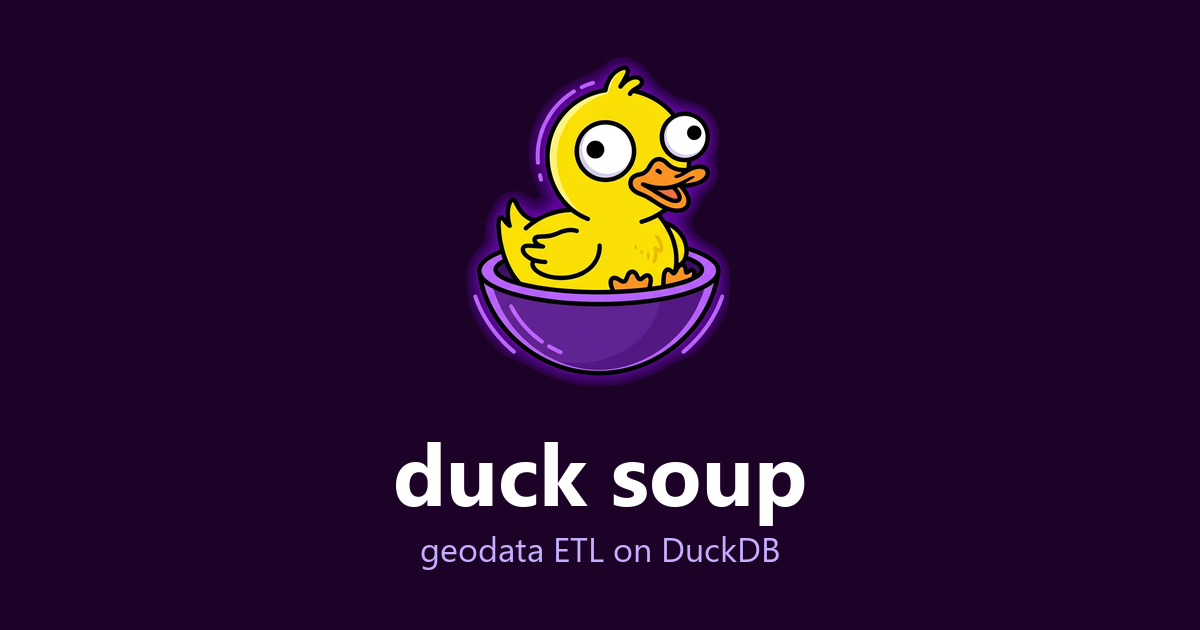
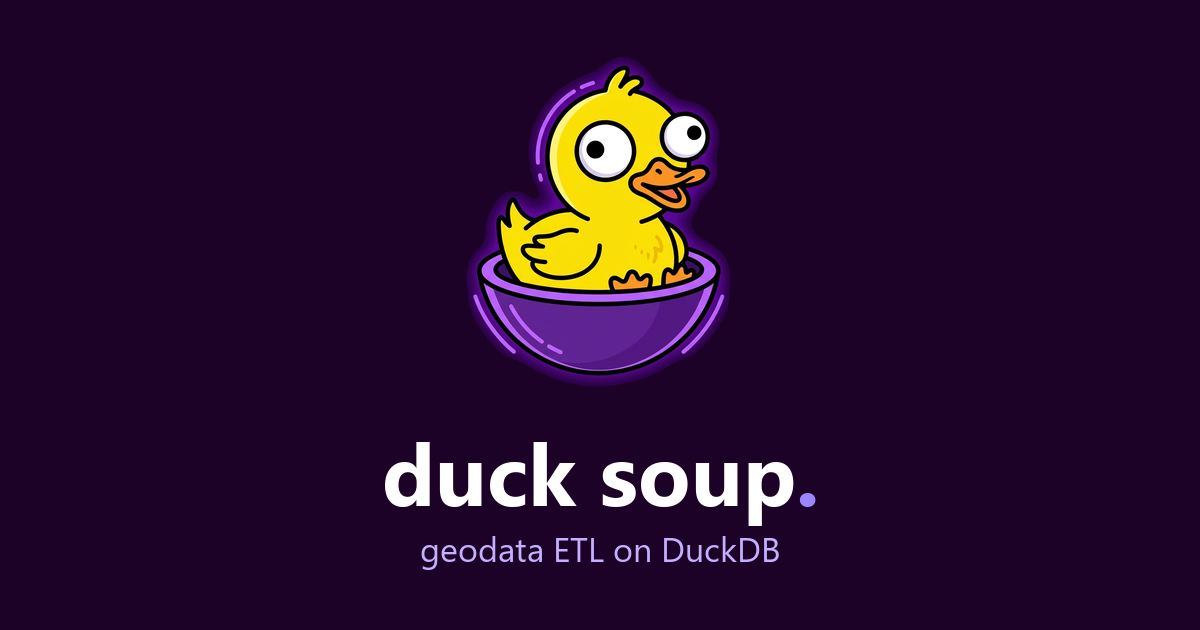
End the wordmark with the editor's accent-coloured full stop, bump to 1.3.3
- Docs header: the site name gets a "." in the accent colour (CSS on the
  header's first topic; a paler violet on the light scheme's violet bar).
  site_name itself stays plain, for tab titles and link previews.
- Docs home page title: "duck soup." with the dot in the accent colour.
- Social card: the title is drawn with the accent-coloured dot (rebuilt).
- README title: "duck soup."

Changed region(s): [[0.3083, 0.6937, 0.6783, 0.8444]]

diff --git a/docs/stylesheets/extra.css b/docs/stylesheets/extra.css
@@ -36,6 +36,19 @@
   margin-left: 0.2rem;
 }
 
+/* The editor's wordmark ends in an accent-coloured full stop ("duck soup."); give the header's
+   site name the same one. Only the first topic is the site name, the second the page title.
+   On the topic (a flex box) rather than its span, whose trailing whitespace would show. */
+.md-header__topic:first-child::after {
+  content: ".";
+  color: var(--ds-accent);
+}
+
+/* The light scheme's header is the violet itself: use a paler one there. */
+[data-md-color-scheme="default"] .md-header__topic:first-child::after {
+  color: #c4b0ff;
+}
+
 /* Material hides the header logo below its desktop breakpoint (it only shows in the drawer).
    Keep a small duck there, placed after the hamburger button. */
 @media screen and (max-width: 76.234375em) {
@@ -70,6 +83,14 @@
 
 .md-typeset .ds-hero h1 {
   margin: 0.3rem 0 0.4rem;
+}
+
+.ds-hero h1 .ds-dot {
+  color: var(--ds-accent);
+}
+
+[data-md-color-scheme="default"] .ds-hero h1 .ds-dot {
+  color: #5b3fd6;
 }
 
 .ds-hero img {

diff --git a/scripts/build_social_card.py b/scripts/build_social_card.py
@@ -19,6 +19,7 @@ W, H = 1200, 630
 
 TITLE = "duck soup"
 TAGLINE = "geodata ETL on DuckDB"
+ACCENT = (157, 133, 255)  # --accent in duck_soup/web/ui/src/styles.css
 
 
 def _font(names: list[str], size: int) -> ImageFont.FreeTypeFont:
@@ -41,7 +42,11 @@ def main() -> None:
     draw = ImageDraw.Draw(card)
     title_font = _font(["SpaceGrotesk-Bold.ttf", "segoeuib.ttf", "DejaVuSans-Bold.ttf"], 86)
     tag_font = _font(["SpaceGrotesk-Regular.ttf", "segoeui.ttf", "DejaVuSans.ttf"], 34)
-    draw.text((W // 2, 470), TITLE, font=title_font, fill=(255, 255, 255), anchor="mm")
+    # The editor's wordmark: the name plus a full stop in the accent colour, centred together.
+    title_w = draw.textlength(TITLE + ".", font=title_font)
+    x = (W - title_w) / 2
+    draw.text((x, 470), TITLE, font=title_font, fill=(255, 255, 255), anchor="lm")
+    draw.text((x + draw.textlength(TITLE, font=title_font), 470), ".", font=title_font, fill=ACCENT, anchor="lm")
     draw.text((W // 2, 548), TAGLINE, font=tag_font, fill=(196, 176, 255), anchor="mm")
 
     card.save(OUT, optimize=True)

diff --git a/README.md b/README.md
@@ -1,4 +1,4 @@
-# <img src="duck_soup/web/static/favicon.png" width="32" height="32" align="absmiddle"> duck soup
+# <img src="duck_soup/web/static/favicon.png" width="32" height="32" align="absmiddle"> duck soup.
 
 [![DuckDB](https://img.shields.io/badge/Powered%20by-DuckDB-orange.svg)](https://duckdb.org/)
 [![Output](https://img.shields.io/badge/Output-GeoPackage%20%7C%20GeoParquet-blue.svg)](https://www.geopackage.org/)

diff --git a/docs/index.md b/docs/index.md
@@ -7,7 +7,7 @@ hide:
 
 ![duck soup logo](assets/favicon.png)
 
-# duck soup
+# duck soup<span class="ds-dot">.</span>
 
 <p class="tagline">Config-driven geodata ETL on DuckDB — as easy as… well, duck soup.</p>
 
